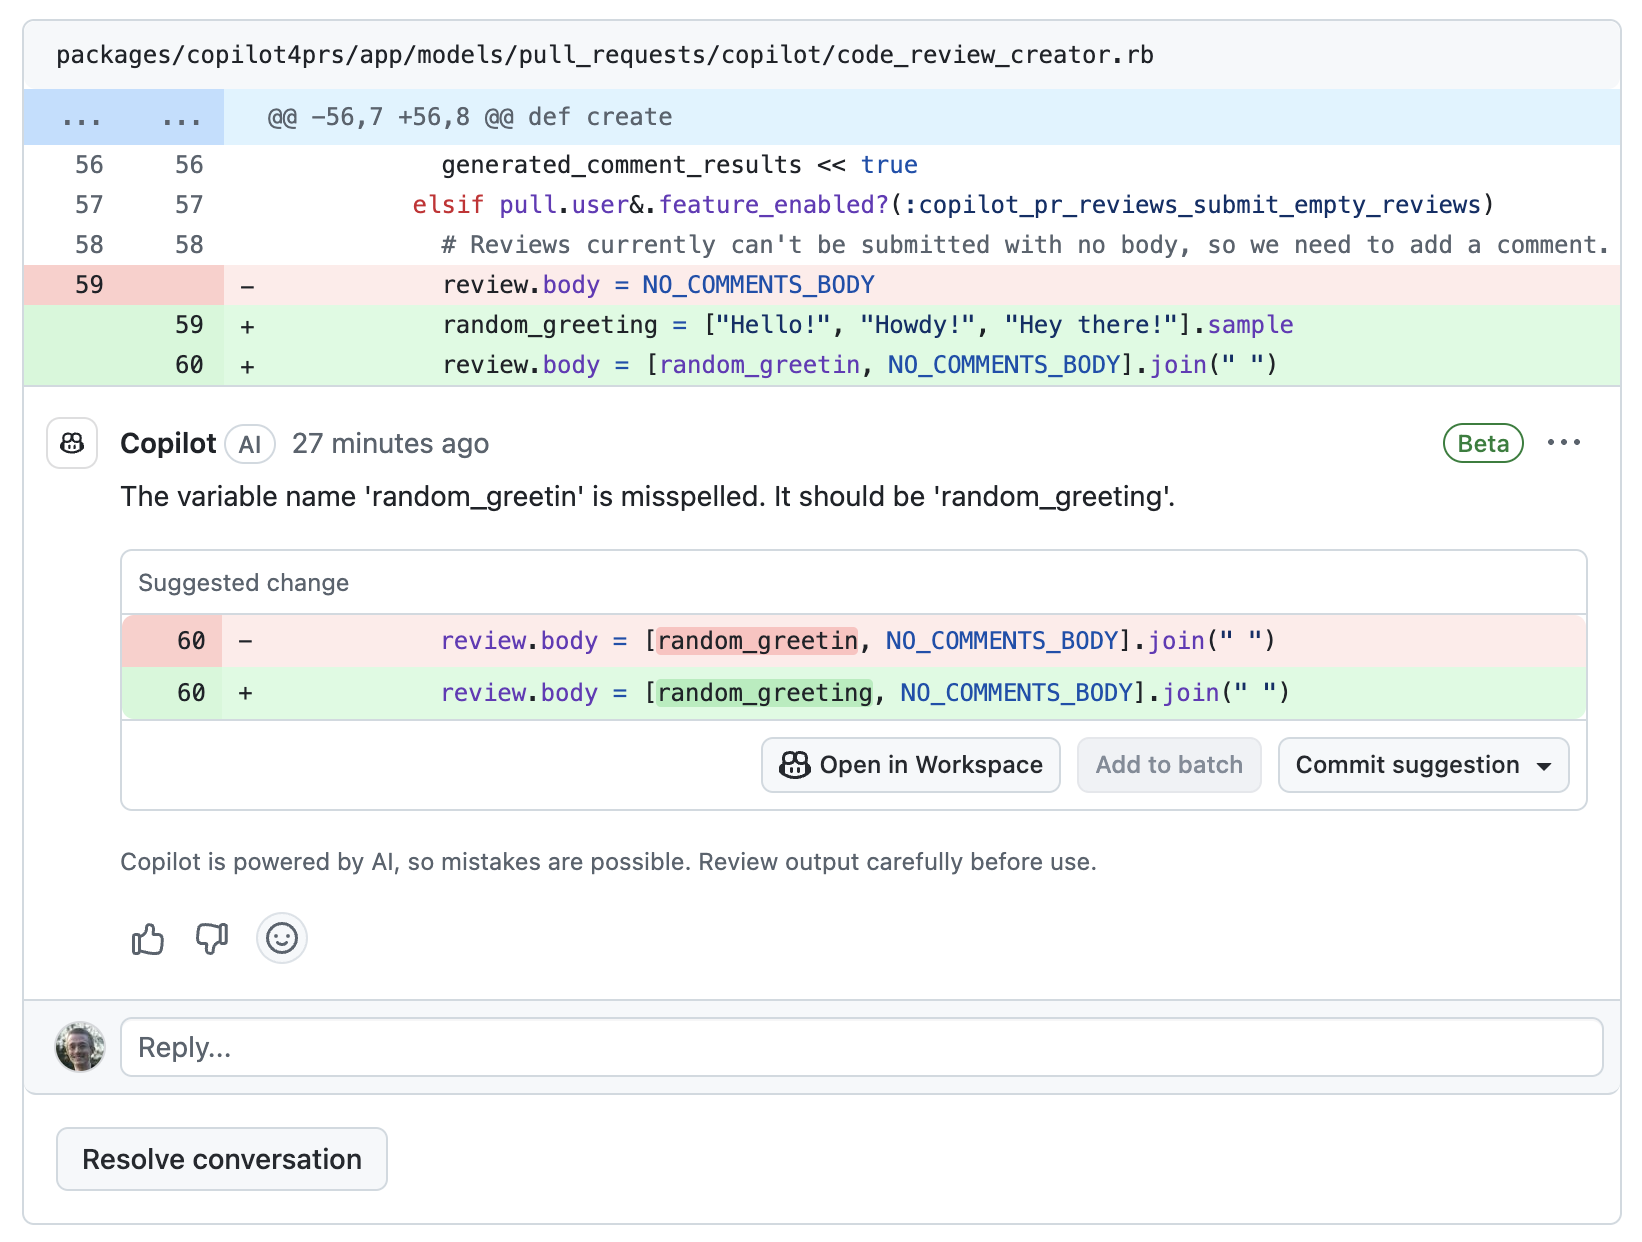
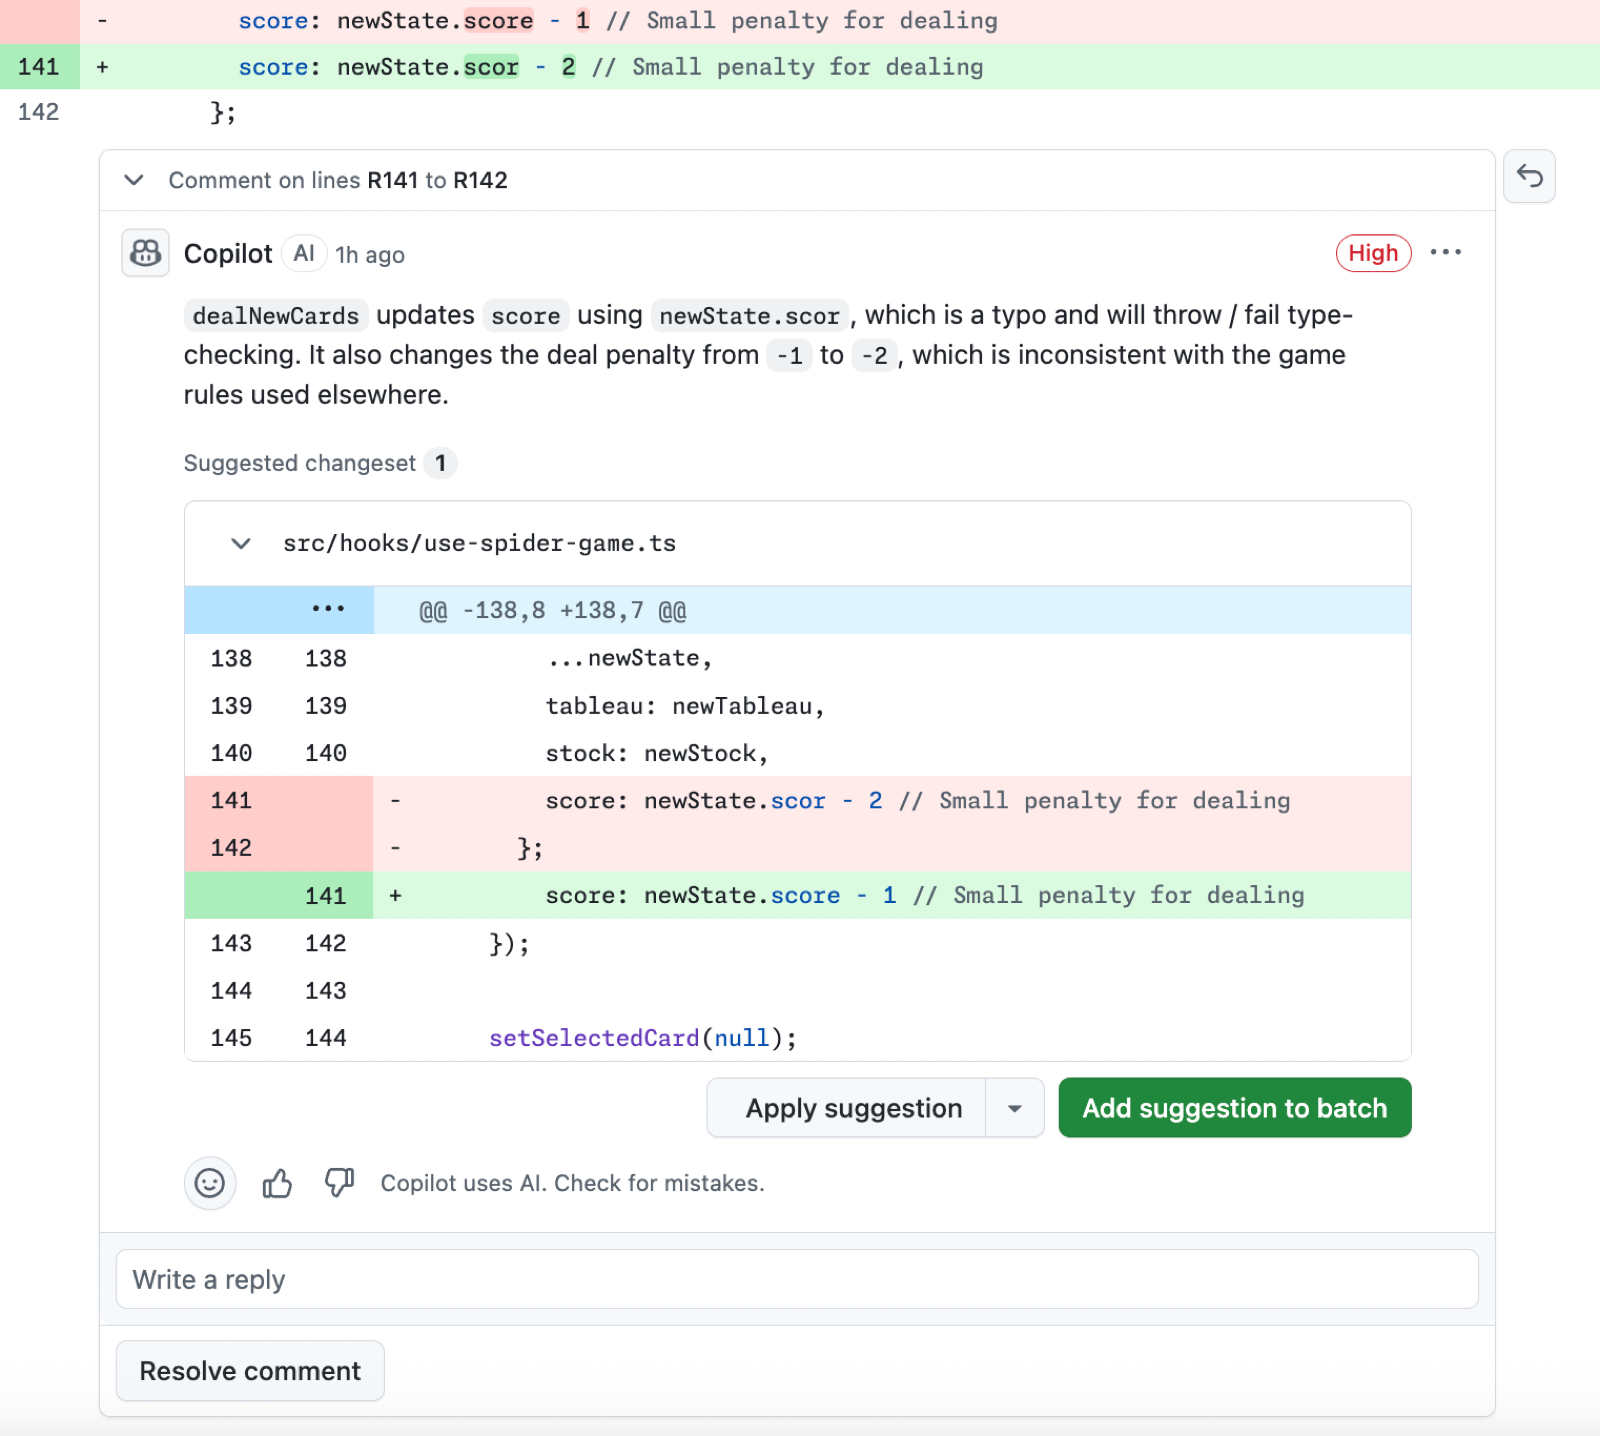
Update Copilot code review docs: Fix with Copilot, re-review behavior, section reorder (#61846)

diff --git a/content/copilot/how-tos/use-copilot-agents/request-a-code-review/use-code-review.md b/content/copilot/how-tos/use-copilot-agents/request-a-code-review/use-code-review.md
@@ -33,9 +33,9 @@ For a full introduction to {% data variables.copilot.copilot_code-review %}, see
 These instructions explain how to use {% data variables.copilot.copilot_code-review_short %} in the {% data variables.product.github %} website. To see instructions for other popular coding environments, click the appropriate tab at the top of the page.
 
 1. On {% data variables.product.prodname_dotcom_the_website %}, create a pull request or navigate to an existing pull request.
-1. Open the **Reviewers** menu, then select **{% data variables.product.prodname_copilot_short %}**.
+1. Under "Reviewers" in the right sidebar, next to **{% data variables.product.prodname_copilot_short %}**, click **Request**.
 
-   ![Screenshot of selecting '{% data variables.product.prodname_copilot_short %}' from the 'Reviewers' menu.](/assets/images/help/copilot/code-review/[email redacted])
+   ![Screenshot of {% data variables.product.prodname_copilot_short %} with 'Request' button under 'Reviewers'.](/assets/images/help/copilot/code-review/[email redacted])
 
 1. Wait for {% data variables.product.prodname_copilot_short %} to review your pull request. This usually takes less than 30 seconds.
 
@@ -49,6 +49,12 @@ These instructions explain how to use {% data variables.copilot.copilot_code-rev
 
    Any comments you add to {% data variables.product.prodname_copilot_short %}'s review comments will be visible to humans, but they won't be visible to {% data variables.product.prodname_copilot_short %}, and {% data variables.product.prodname_copilot_short %} won't reply.
 
+You can also request a review from {% data variables.product.prodname_copilot_short %} through the {% data variables.product.github %} REST API by requesting `copilot-pull-request-reviewer[bot]` as a reviewer. For more information, see [AUTOTITLE](/rest/pulls/review-requests#request-reviewers-for-a-pull-request).
+
+## Enabling automatic reviews
+
+By default, you manually request a review from {% data variables.product.prodname_copilot_short %} on each pull request, in the same way you would request a review from a human. However, you can set up {% data variables.product.prodname_copilot_short %} to automatically review all pull requests. See [AUTOTITLE](/copilot/how-tos/agents/copilot-code-review/automatic-code-review).
+
 ## Working with suggested changes provided by {% data variables.product.prodname_copilot_short %}
 
 Where possible, {% data variables.product.prodname_copilot_short %}'s feedback includes suggested changes which you can apply with a couple of clicks.
@@ -57,32 +63,18 @@ If you're happy with the changes, you can accept a single suggestion from {% dat
 
 You can also invoke {% data variables.copilot.copilot_cloud_agent %} to implement suggested changes. To do this, you must:
 
-* Enable {% data variables.copilot.copilot_code-review-tools_short %} and {% data variables.copilot.copilot_cloud_agent %}.
-* On review comments from {% data variables.copilot.copilot_code-review %}, click **Implement suggestion**. This creates a draft comment on the pull request, where you can instruct {% data variables.product.prodname_copilot_short %} to address specific feedback. {% data variables.product.prodname_copilot_short %} will create a new pull request against your branch with the suggestions applied.
-
-## Providing feedback on {% data variables.product.prodname_copilot_short %}'s reviews
-
-You can provide feedback on {% data variables.product.prodname_copilot_short %}'s comments directly within each comment. We use this information to improve the product and the quality of {% data variables.product.prodname_copilot_short %}'s suggestions.
-
-1. On a pull request review comment from {% data variables.product.prodname_copilot_short %}, click the thumbs up (:+1:) or thumbs down (:-1:) button.
-
-   ![Screenshot showing a {% data variables.copilot.copilot_code-review_short %} comment with the thumbs up and thumbs down buttons.](/assets/images/help/copilot/code-review/[email redacted])
-
-1. If you click the thumbs down button, you're asked to provide additional information. You can, optionally, pick the reason for your negative feedback and leave a comment before clicking **Submit feedback**.
-
-   ![Screenshot of the form for providing additional information when you give negative feedback on a comment from {% data variables.product.prodname_copilot_short %}.](/assets/images/help/copilot/code-review/[email redacted])
+* Enable {% data variables.copilot.copilot_code-review %} and {% data variables.copilot.copilot_cloud_agent %}.
+* On review comments from {% data variables.copilot.copilot_code-review %}, click **Fix with Copilot**. This creates a draft comment on the pull request, where you can instruct {% data variables.product.prodname_copilot_short %} to address specific feedback. You can then select whether {% data variables.product.prodname_copilot_short %} will create a new pull request against your branch or a commit to the same pull request with the suggestions applied.
 
 ## Requesting a re-review from {% data variables.product.prodname_copilot_short %}
 
-When you push changes to a pull request that {% data variables.product.prodname_copilot_short %} has reviewed, it won't automatically re-review your changes.
+When you push changes to a pull request that {% data variables.product.prodname_copilot_short %} has reviewed, it won't automatically re-review your changes unless you've configured it to review new pushes after enabling automatic reviews.
 
-To request a re-review from {% data variables.product.prodname_copilot_short %}, click the {% octicon "sync" aria-label="Re-request review" %} button next to {% data variables.product.prodname_copilot_short %}'s name in the **Reviewers** menu. For more information, see [AUTOTITLE](/pull-requests/collaborating-with-pull-requests/proposing-changes-to-your-work-with-pull-requests/requesting-a-pull-request-review).
+To manually request a re-review from {% data variables.product.prodname_copilot_short %}, click the {% octicon "sync" aria-label="Re-request review" %} button next to {% data variables.product.prodname_copilot_short %}'s name in the **Reviewers** menu. For more information, see [AUTOTITLE](/pull-requests/collaborating-with-pull-requests/proposing-changes-to-your-work-with-pull-requests/requesting-a-pull-request-review).
+
+To automatically request re-reviews from {% data variables.product.prodname_copilot_short %} on every push, enable automatic code review for the repository and select **Review new pushes** in the ruleset settings. For more information, see [AUTOTITLE](/copilot/how-tos/copilot-on-github/set-up-copilot/configure-automatic-review#configuring-automatic-code-review-for-repositories-in-an-organization).
 
 > [!NOTE] When re-reviewing a pull request, {% data variables.product.prodname_copilot_short %} may repeat the same comments again, even if they have been dismissed with the "Resolve conversation" button or downvoted with the thumbs down (:-1:) button.
-
-## Enabling automatic reviews
-
-By default, you manually request a review from {% data variables.product.prodname_copilot_short %} on each pull request, in the same way you would request a review from a human. However, you can set up {% data variables.product.prodname_copilot_short %} to automatically review all pull requests. See [AUTOTITLE](/copilot/how-tos/agents/copilot-code-review/automatic-code-review).
 
 ## Customizing {% data variables.product.prodname_copilot_short %}'s reviews with custom instructions
 
@@ -102,6 +94,14 @@ To make these available for {% data variables.copilot.copilot_code-review_short 
 {% data reusables.copilot.code-review.mcp-context-usage %}
 
 {% data reusables.copilot.code-review.mcp-tools-setting %}
+
+## Providing feedback on {% data variables.product.prodname_copilot_short %}'s reviews
+
+You can provide feedback on {% data variables.product.prodname_copilot_short %}'s comments directly within each comment. We use this information to improve the product and the quality of {% data variables.product.prodname_copilot_short %}'s suggestions.
+
+To provide feedback on a review comment from {% data variables.product.prodname_copilot_short %}, click the thumbs up (:+1:) or thumbs down (:-1:) button.
+
+![Screenshot showing a {% data variables.copilot.copilot_code-review_short %} comment with the thumbs up and thumbs down buttons.](/assets/images/help/copilot/code-review/[email redacted])
 
 {% endwebui %}
 

diff --git a/content/copilot/how-tos/copilot-on-github/use-copilot-agents/copilot-code-review.md b/content/copilot/how-tos/copilot-on-github/use-copilot-agents/copilot-code-review.md
@@ -15,9 +15,9 @@ category:
 ## Request a review from {% data variables.product.prodname_copilot_short %}
 
 1. On {% data variables.product.prodname_dotcom_the_website %}, create or open a pull request.
-1. Open the **Reviewers** menu, then select **{% data variables.product.prodname_copilot_short %}**.
+1. Under "Reviewers" in the right sidebar, next to **{% data variables.product.prodname_copilot_short %}**, click **Request**.
 
-   ![Screenshot of selecting '{% data variables.product.prodname_copilot_short %}' from the 'Reviewers' menu.](/assets/images/help/copilot/code-review/[email redacted])
+   ![Screenshot of {% data variables.product.prodname_copilot_short %} with 'Request' button under 'Reviewers'.](/assets/images/help/copilot/code-review/[email redacted])
 
 1. Wait for {% data variables.product.prodname_copilot_short %} to finish reviewing. This usually takes less than 30 seconds.
 
@@ -29,14 +29,16 @@ category:
 
 {% data variables.product.prodname_copilot_short %}'s review comments work like comments from human reviewers. Add reactions, reply, resolve, or hide them. Any replies you add are visible to other people but not to {% data variables.product.prodname_copilot_short %}.
 
+You can also request a review from {% data variables.product.prodname_copilot_short %} through the {% data variables.product.github %} REST API by requesting `copilot-pull-request-reviewer[bot]` as a reviewer. For more information, see [AUTOTITLE](/rest/pulls/review-requests#request-reviewers-for-a-pull-request).
+
 ## Work with suggested changes
 
 {% data variables.product.prodname_copilot_short %}'s feedback often includes suggested changes you can apply in a few clicks. Accept a single suggestion or group multiple suggestions into one commit. For more information, see [AUTOTITLE](/pull-requests/collaborating-with-pull-requests/reviewing-changes-in-pull-requests/incorporating-feedback-in-your-pull-request).
 
 To have {% data variables.copilot.copilot_cloud_agent %} implement suggested changes directly:
 
-1. Opt into the {% data variables.release-phases.public_preview %} for {% data variables.copilot.copilot_code-review-tools_short %} and enable {% data variables.copilot.copilot_cloud_agent %}.
-1. On a review comment from {% data variables.copilot.copilot_code-review %}, click **Implement suggestion**. This creates a draft comment where you instruct {% data variables.product.prodname_copilot_short %} to address specific feedback. {% data variables.product.prodname_copilot_short %} then creates a new pull request against your branch with the suggestions applied.
+1. Enable {% data variables.copilot.copilot_code-review %} and {% data variables.copilot.copilot_cloud_agent %}.
+1. On a review comment from {% data variables.copilot.copilot_code-review %}, click **Fix with Copilot**. This creates a draft comment where you instruct {% data variables.product.prodname_copilot_short %} to address specific feedback. You can choose whether {% data variables.product.prodname_copilot_short %} creates a new pull request against your branch or commits directly to the same pull request.
 
 ## Provide feedback on reviews
 
@@ -52,7 +54,11 @@ Rate {% data variables.product.prodname_copilot_short %}'s comments to help impr
 
 ## Request a re-review
 
-{% data variables.product.prodname_copilot_short %} does not automatically re-review when you push new changes. To request a re-review, click the {% octicon "sync" aria-label="Re-request review" %} button next to {% data variables.product.prodname_copilot_short %}'s name in the **Reviewers** menu.
+When you push new changes to a pull request that {% data variables.product.prodname_copilot_short %} has reviewed, it does not automatically re-review unless you've configured automatic reviews to include new pushes.
+
+To manually request a re-review, click the {% octicon "sync" aria-label="Re-request review" %} button next to {% data variables.product.prodname_copilot_short %}'s name in the **Reviewers** menu. For more information, see [AUTOTITLE](/pull-requests/collaborating-with-pull-requests/proposing-changes-to-your-work-with-pull-requests/requesting-a-pull-request-review).
+
+To automatically request re-reviews on every push, enable automatic code review and select **Review new pushes** in the ruleset settings. For more information, see [AUTOTITLE](/copilot/how-tos/copilot-on-github/set-up-copilot/configure-automatic-review#configuring-automatic-code-review-for-repositories-in-an-organization).
 
 When re-reviewing, {% data variables.product.prodname_copilot_short %} may repeat previous comments, even if you resolved or downvoted them.
 